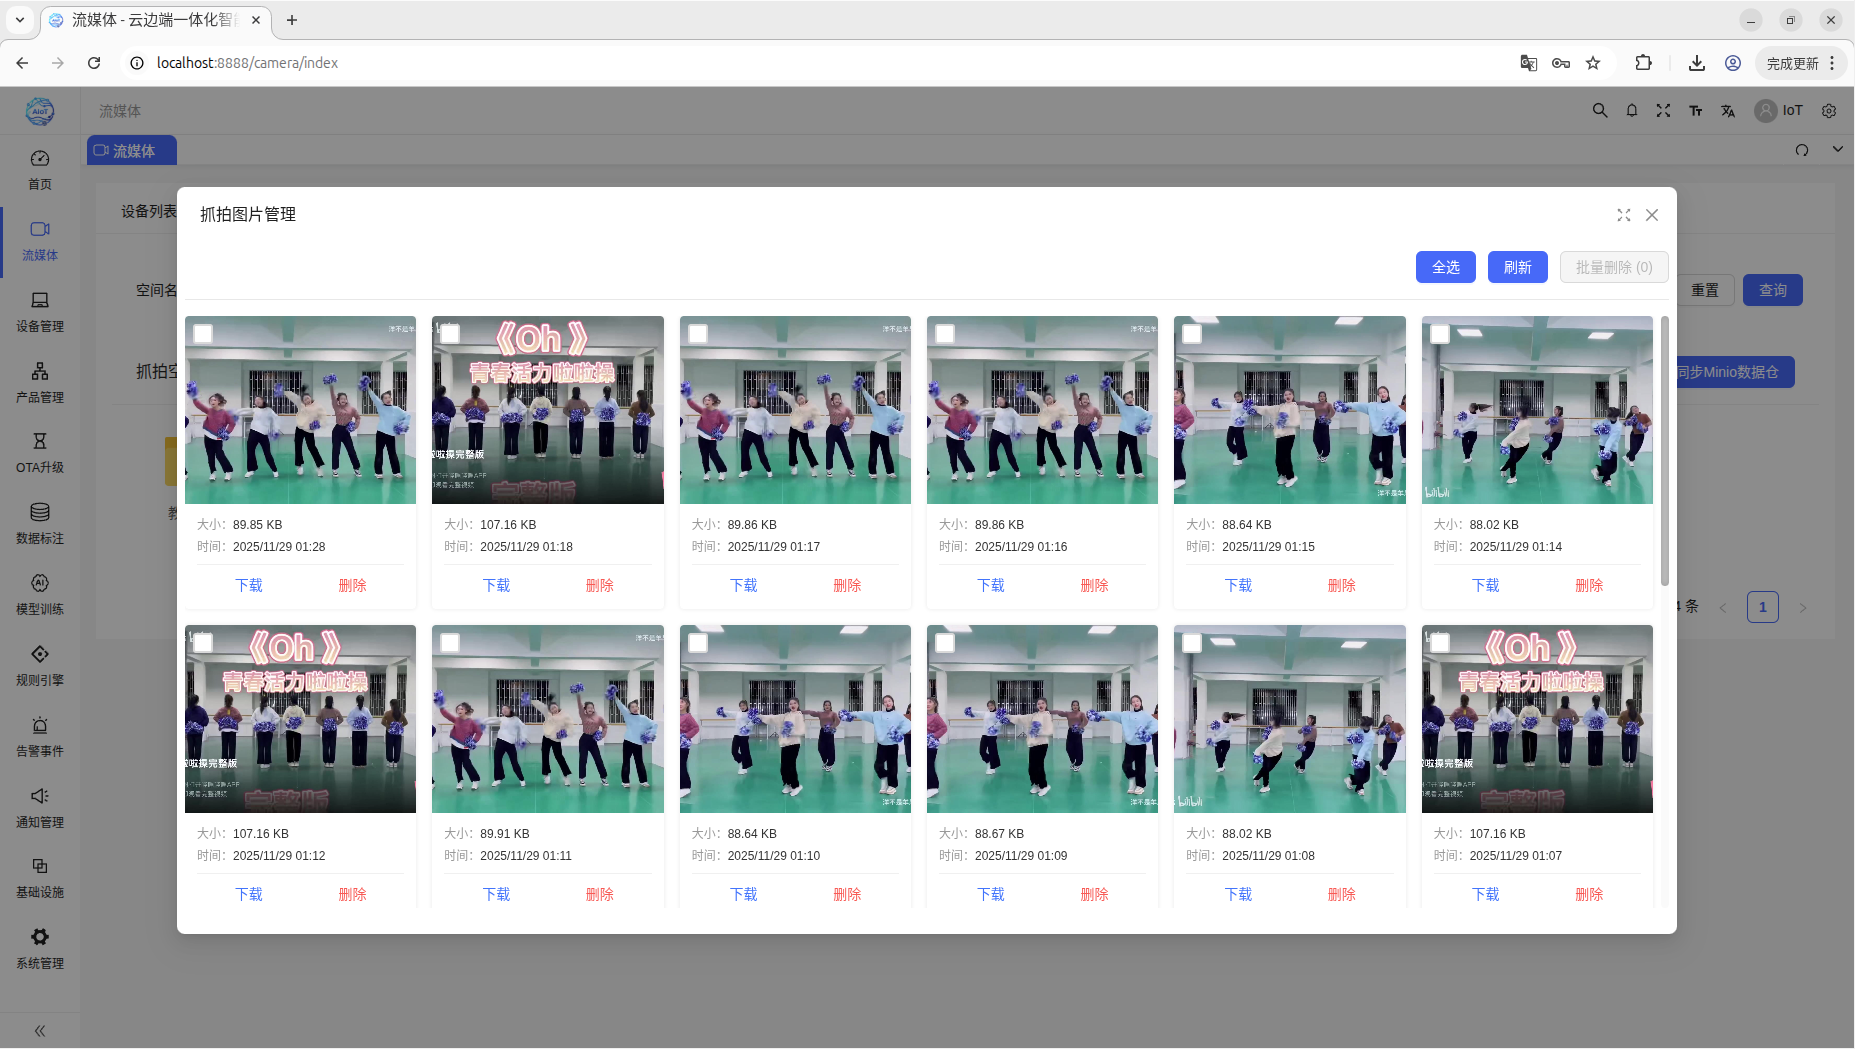
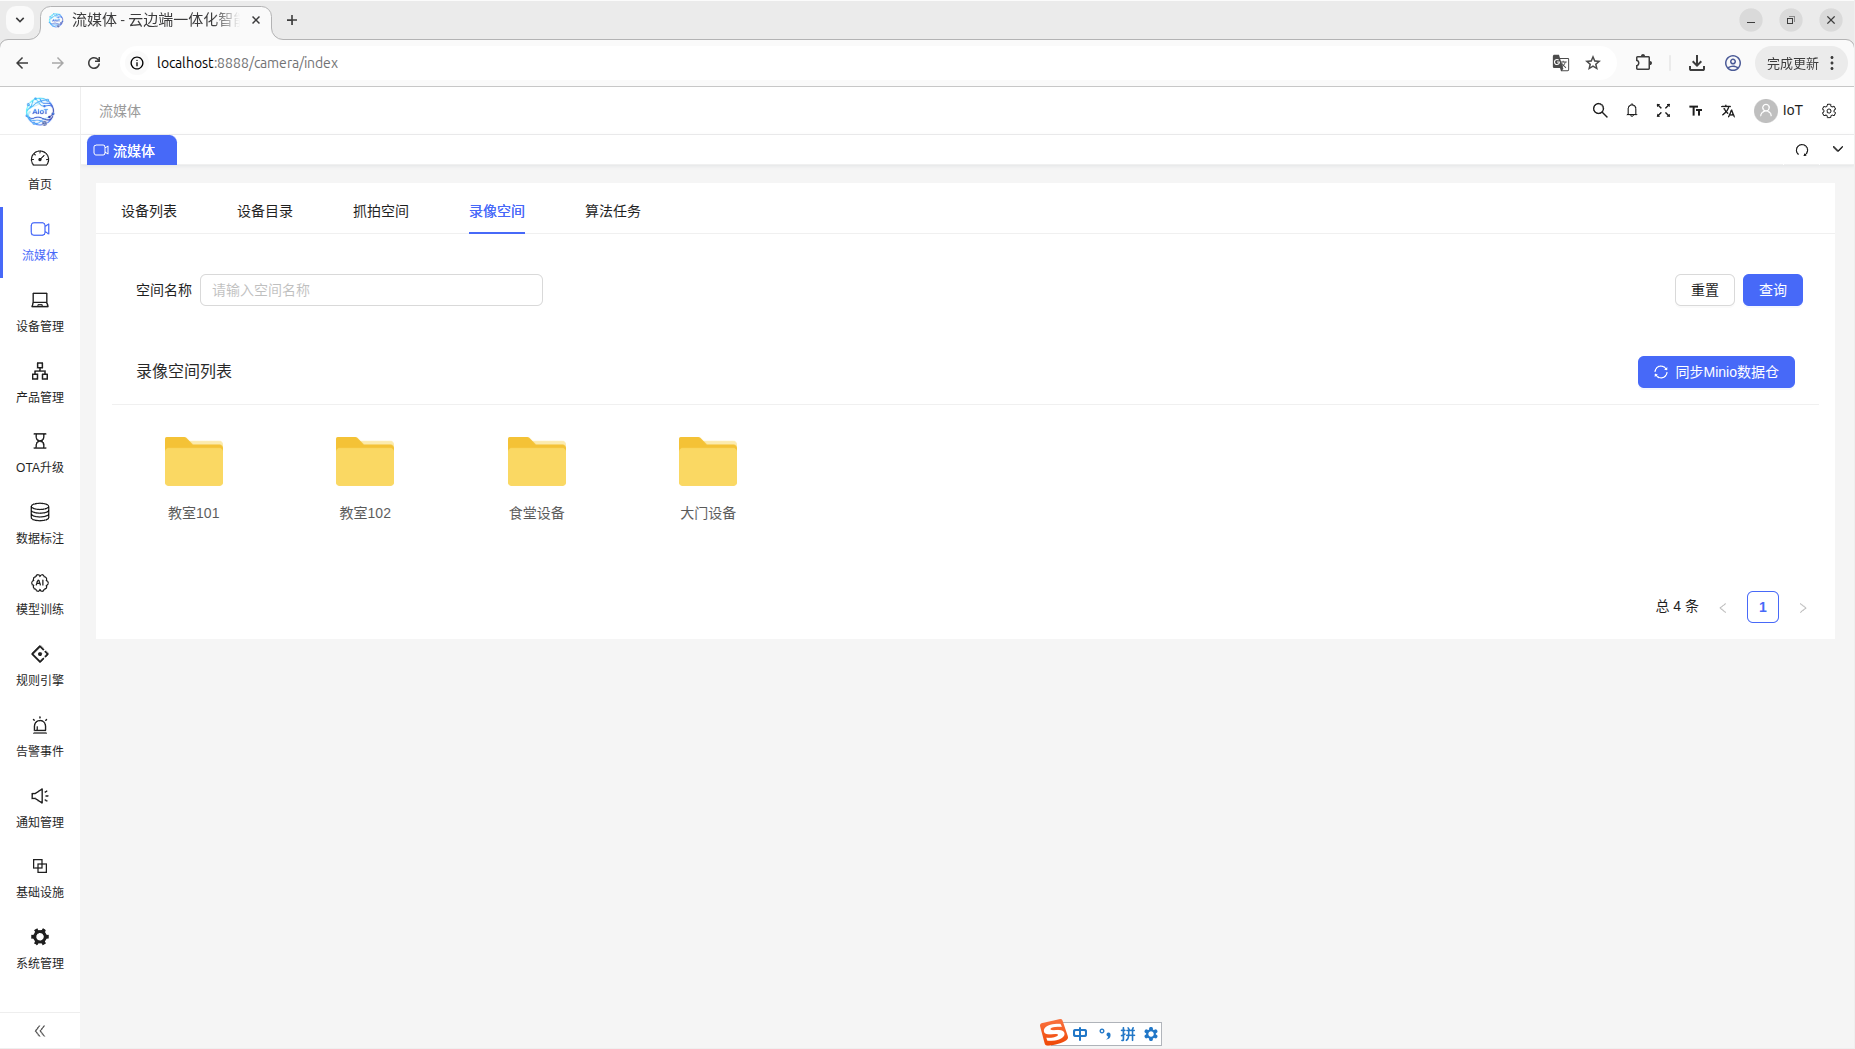
udp(VIDEO)：增加录像空间/回放，管理摄像头空间下的录像片段

diff --git a/WEB/src/views/camera/components/RecordSpace/RecordVideoModal.vue b/WEB/src/views/camera/components/RecordSpace/RecordVideoModal.vue
@@ -110,49 +110,19 @@
         </Spin>
       </div>
     </div>
-
-    <!-- 视频播放模态框 -->
-    <a-modal
-      v-model:open="playVisible"
-      :title="playVideo?.filename"
-      :footer="null"
-      :width="1000"
-    >
-      <div style="text-align: center">
-        <video
-          v-if="playVideo"
-          :src="getVideoUrl(playVideo)"
-          controls
-          style="width: 100%; max-height: 600px;"
-        />
-      </div>
-    </a-modal>
-
-    <!-- 视频预览模态框 -->
-    <a-modal
-      v-model:open="previewVisible"
-      :title="previewVideo?.filename"
-      :footer="null"
-      :width="800"
-    >
-      <div style="text-align: center">
-        <video
-          v-if="previewVideo"
-          :src="getVideoUrl(previewVideo)"
-          controls
-          style="width: 100%; max-height: 500px;"
-        />
-      </div>
-    </a-modal>
+    
+    <!-- 视频播放器弹框 -->
+    <DialogPlayer @register="registerPlayerModal" />
   </BasicModal>
 </template>
 
 <script lang="ts" setup>
 import { ref, computed } from 'vue';
 import { List, Spin } from 'ant-design-vue';
-import { BasicModal, useModalInner } from '@/components/Modal';
+import { BasicModal, useModalInner, useModal } from '@/components/Modal';
 import { useMessage } from '@/hooks/web/useMessage';
 import { getRecordVideoList, deleteRecordVideos, type RecordVideo } from '@/api/device/record';
+import DialogPlayer from '@/components/VideoPlayer/DialogPlayer.vue';
 
 defineOptions({ name: 'RecordVideoModal' });
 
@@ -166,9 +136,10 @@ const videoList = ref<RecordVideo[]>([]);
 const loading = ref(false);
 const selectedRowKeys = ref<string[]>([]);
 const previewVisible = ref(false);
-const playVisible = ref(false);
 const previewVideo = ref<RecordVideo | null>(null);
-const playVideo = ref<RecordVideo | null>(null);
+
+// 播放器弹框
+const [registerPlayerModal, { openModal: openPlayerModal }] = useModal();
 
 // 分页相关
 const page = ref(1);
@@ -206,6 +177,15 @@ function pageSizeChange(_current: number, size: number) {
 const getVideoUrl = (record: RecordVideo) => {
   // 优先使用后台返回的 url 字段，如果没有则使用 object_name 构建
   if (record.url) {
+    // 如果是完整URL（以http://或https://开头），直接返回
+    if (record.url.startsWith('http://') || record.url.startsWith('https://')) {
+      return record.url;
+    }
+    // 如果是相对路径（以/api/v1/buckets开头），添加前端启动地址前缀
+    if (record.url.startsWith('/api/v1/buckets')) {
+      return `${window.location.origin}${record.url}`;
+    }
+    // 其他情况直接返回
     return record.url;
   }
   if (!modalData.value.space_id) return '';
@@ -342,13 +322,18 @@ const handleSelectChange = (key: string, checked: boolean) => {
 };
 
 const handlePlay = (record: RecordVideo) => {
-  playVideo.value = record;
-  playVisible.value = true;
-  // 也可以使用 DialogPlayer 组件
-  // openPlayerModal(true, {
-  //   rtmp_stream: getVideoUrl(record),
-  //   http_stream: getVideoUrl(record),
-  // });
+  const videoUrl = getVideoUrl(record);
+  
+  if (!videoUrl) {
+    createMessage.warning('录像文件地址无效，无法播放');
+    return;
+  }
+  
+  // 使用 DialogPlayer 组件打开播放器
+  openPlayerModal(true, {
+    id: modalData.value.space_id || 0,
+    http_stream: videoUrl,
+  });
 };
 
 const handlePreview = (record: RecordVideo) => {

diff --git a/WEB/src/views/camera/components/PlaybackList/index.vue b/WEB/src/views/camera/components/PlaybackList/index.vue
@@ -57,7 +57,7 @@
       </template>
     </PlaybackCardList>
 
-    <DialogPlayer title="录像播放" @register="registerPlayerAddModel" />
+    <DialogPlayer @register="registerPlayerAddModel" />
   </div>
 </template>
 
@@ -313,14 +313,35 @@ async function handleFormReset() {
   reload();
 }
 
+// 获取录像播放地址
+const getPlaybackUrl = (filePath: string): string => {
+  if (!filePath) return '';
+  // 如果是完整URL，直接返回
+  if (filePath.startsWith('http://') || filePath.startsWith('https://')) {
+    return filePath;
+  }
+  // 如果是相对路径，拼接API前缀
+  if (filePath.startsWith('/')) {
+    return `${import.meta.env.VITE_GLOB_API_URL || ''}${filePath}`;
+  }
+  // 其他情况直接返回
+  return filePath;
+};
+
 // 播放录像
 const handlePlay = (record: PlaybackInfo) => {
-  // 这里需要根据实际的播放器组件来调整
-  // 假设使用DialogPlayer组件
+  // 获取播放地址
+  const httpStream = getPlaybackUrl(record.file_path);
+  
+  if (!httpStream) {
+    createMessage.warning('录像文件地址无效，无法播放');
+    return;
+  }
+  
+  // 打开播放器，与算法任务保持一致
   openPlayerAddModel(true, {
-    ...record,
-    rtmp_stream: record.file_path, // 使用文件路径作为播放源
-    http_stream: record.file_path
+    id: record.device_id,
+    http_stream: httpStream,
   });
 };
 

diff --git a/VIDEO/app/services/record_video_service.py b/VIDEO/app/services/record_video_service.py
@@ -9,7 +9,7 @@ import zipfile
 import io
 from datetime import datetime, timedelta
 from typing import List, Dict, Optional, Tuple
-from urllib.parse import quote
+from urllib.parse import quote, urlparse, parse_qs
 from flask import current_app
 from minio import Minio
 from minio.error import S3Error
@@ -18,6 +18,29 @@ from models import db, RecordSpace, Playback
 from app.services.record_space_service import get_minio_client
 
 logger = logging.getLogger(__name__)
+
+
+def extract_prefix_from_url(url: str) -> Optional[str]:
+    """
+    从URL中提取prefix参数
+    格式: /api/v1/buckets/{bucket_name}/objects/download?prefix={prefix}
+    如果url不是URL格式，则直接返回url（兼容旧格式）
+    """
+    if not url:
+        return None
+    
+    # 如果不是URL格式（不包含/api/v1/buckets），直接返回（兼容旧格式）
+    if not url.startswith('/api/v1/buckets/'):
+        return url
+    
+    try:
+        parsed = urlparse(url)
+        query_params = parse_qs(parsed.query)
+        prefix = query_params.get('prefix', [None])[0]
+        return prefix
+    except Exception as e:
+        logger.warning(f"从URL提取prefix失败: {url}, 错误: {str(e)}")
+        return None
 
 
 def list_record_videos(space_id: int, device_id: Optional[str] = None, 
@@ -71,11 +94,33 @@ def list_record_videos(space_id: int, device_id: Optional[str] = None,
                 video_objects.append(obj)
         
         # 批量查询Playback记录
+        # 需要兼容URL格式和旧格式（object_name）
         playback_map = {}
         if video_object_names:
+            # 先尝试用object_name直接查询（兼容旧格式）
             playbacks = Playback.query.filter(Playback.file_path.in_(video_object_names)).all()
             for playback in playbacks:
-                playback_map[playback.file_path] = playback
+                # 从playback.file_path中提取prefix，用于匹配
+                extracted_prefix = extract_prefix_from_url(playback.file_path)
+                if extracted_prefix:
+                    # 使用提取的prefix作为key（对应obj.object_name）
+                    playback_map[extracted_prefix] = playback
+                else:
+                    # 如果提取失败，使用原始file_path（兼容旧格式）
+                    playback_map[playback.file_path] = playback
+            
+            # 同时构建URL格式的查询条件（兼容新格式）
+            url_formatted_names = [
+                f"/api/v1/buckets/{bucket_name}/objects/download?prefix={quote(name, safe='')}"
+                for name in video_object_names
+            ]
+            playbacks_by_url = Playback.query.filter(Playback.file_path.in_(url_formatted_names)).all()
+            for playback in playbacks_by_url:
+                # 从playback.file_path中提取prefix，用于匹配
+                extracted_prefix = extract_prefix_from_url(playback.file_path)
+                if extracted_prefix:
+                    # 使用提取的prefix作为key（对应obj.object_name）
+                    playback_map[extracted_prefix] = playback
         
         # 遍历视频对象，构建视频列表
         for obj in video_objects:
@@ -89,8 +134,12 @@ def list_record_videos(space_id: int, device_id: Optional[str] = None,
                 duration = None
                 
                 if playback and playback.thumbnail_path:
-                    # 如果Playback记录中有封面路径，构建下载URL
-                    thumbnail_url = f"/api/v1/buckets/{bucket_name}/objects/download?prefix={quote(playback.thumbnail_path, safe='')}"
+                    # 如果Playback记录中的thumbnail_path已经是URL格式，直接使用
+                    if playback.thumbnail_path.startswith('/api/v1/buckets/'):
+                        thumbnail_url = playback.thumbnail_path
+                    else:
+                        # 如果是旧格式（object_name），构建URL
+                        thumbnail_url = f"/api/v1/buckets/{bucket_name}/objects/download?prefix={quote(playback.thumbnail_path, safe='')}"
                 else:
                     # 如果没有Playback记录，尝试根据视频文件名构建封面路径
                     # 将视频文件扩展名替换为 .jpg

diff --git a/VIDEO/app/blueprints/camera.py b/VIDEO/app/blueprints/camera.py
@@ -19,6 +19,7 @@ import requests
 from flask import Blueprint, current_app, request, jsonify
 from minio import Minio
 from minio.error import S3Error
+from urllib.parse import quote
 
 from app.services.camera_service import *
 from app.services.camera_service import (
@@ -1317,7 +1318,8 @@ def on_dvr_callback():
                                 tmp_thumbnail_path,
                                 content_type='image/jpeg'
                             )
-                            thumbnail_path = thumbnail_object_name
+                            # 构建封面的URL格式：/api/v1/buckets/{bucket_name}/objects/download?prefix={thumbnail_object_name}
+                            thumbnail_path = f"/api/v1/buckets/{bucket_name}/objects/download?prefix={quote(thumbnail_object_name, safe='')}"
                             logger.debug(f"on_dvr回调：封面上传成功 device_id={device_id}, thumbnail_path={thumbnail_path}")
                         finally:
                             # 删除临时文件
@@ -1353,25 +1355,37 @@ def on_dvr_callback():
                     file_mtime = os.path.getmtime(absolute_file_path)
                     record_time = datetime.fromtimestamp(file_mtime)
                 
-                # 查找是否已存在相同文件路径的记录
+                # 构建录像文件的URL格式：/api/v1/buckets/{bucket_name}/objects/download?prefix={object_name}
+                file_path_url = f"/api/v1/buckets/{bucket_name}/objects/download?prefix={quote(object_name, safe='')}"
+                
+                # 查找是否已存在相同文件路径的记录（兼容旧格式和新格式）
+                # 先尝试用URL格式查询
                 existing_playback = Playback.query.filter_by(
-                    file_path=object_name,
+                    file_path=file_path_url,
                     device_id=device_id
                 ).first()
                 
+                # 如果没找到，尝试用旧格式（object_name）查询（兼容旧数据）
+                if not existing_playback:
+                    existing_playback = Playback.query.filter_by(
+                        file_path=object_name,
+                        device_id=device_id
+                ).first()
+                
                 if existing_playback:
-                    # 更新现有记录
+                    # 更新现有记录（同时更新为URL格式）
+                    existing_playback.file_path = file_path_url
                     existing_playback.thumbnail_path = thumbnail_path
                     existing_playback.file_size = file_size
                     if duration > 0:
                         existing_playback.duration = duration
                     existing_playback.updated_at = datetime.utcnow()
                     db.session.commit()
-                    logger.debug(f"on_dvr回调：更新Playback记录 playback_id={existing_playback.id}, thumbnail_path={thumbnail_path}")
+                    logger.debug(f"on_dvr回调：更新Playback记录 playback_id={existing_playback.id}, file_path={file_path_url}, thumbnail_path={thumbnail_path}")
                 else:
                     # 创建新记录
                     playback = Playback(
-                        file_path=object_name,
+                        file_path=file_path_url,
                         event_time=record_time,
                         device_id=device_id,
                         device_name=device.name if device else '',
@@ -1381,7 +1395,7 @@ def on_dvr_callback():
                     )
                     db.session.add(playback)
                     db.session.commit()
-                    logger.debug(f"on_dvr回调：创建Playback记录 playback_id={playback.id}, thumbnail_path={thumbnail_path}")
+                    logger.debug(f"on_dvr回调：创建Playback记录 playback_id={playback.id}, file_path={file_path_url}, thumbnail_path={thumbnail_path}")
             except Exception as e:
                 logger.error(f"on_dvr回调：创建/更新Playback记录失败 device_id={device_id}, error={str(e)}", exc_info=True)
                 db.session.rollback()

diff --git a/README.md b/README.md
@@ -335,6 +335,10 @@ EasyAIoT是一个开源学习项目，与商业行为无关。用户在使用该
   <img src=".image/banner/banner1058.jpg" alt="Screenshot 7" width="49%">
 </div>
 <div>
+  <img src=".image/banner/banner1068.jpg" alt="Screenshot 7" width="49%" style="margin-right: 10px">
+  <img src=".image/banner/banner1069.jpg" alt="Screenshot 7" width="49%">
+</div>
+<div>
   <img src=".image/banner/banner1026.jpg" alt="Screenshot 8" width="49%" style="margin-right: 10px">
   <img src=".image/banner/banner1028.jpg" alt="Screenshot 7" width="49%">
 </div>

diff --git a/README_en.md b/README_en.md
@@ -338,6 +338,10 @@ compensate third parties for damages caused by usage. All EasyAIoT-related resou
   <img src=".image/banner/banner1058.jpg" alt="Screenshot 7" width="49%">
 </div>
 <div>
+  <img src=".image/banner/banner1068.jpg" alt="Screenshot 7" width="49%" style="margin-right: 10px">
+  <img src=".image/banner/banner1069.jpg" alt="Screenshot 7" width="49%">
+</div>
+<div>
   <img src=".image/banner/banner1026.jpg" alt="Screenshot 8" width="49%" style="margin-right: 10px">
   <img src=".image/banner/banner1028.jpg" alt="Screenshot 7" width="49%">
 </div>
